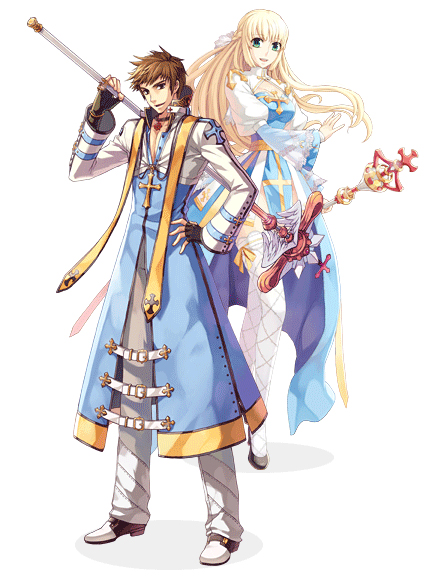
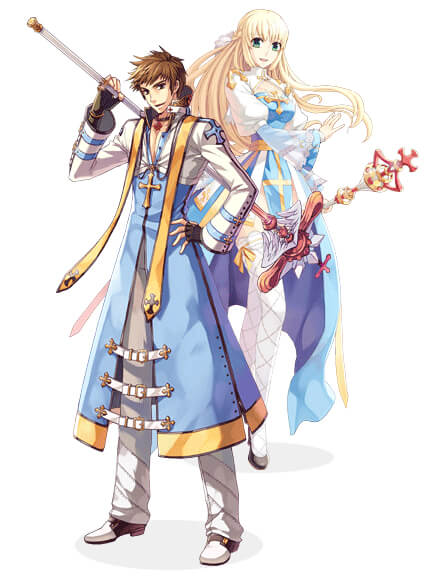
調整圖片尺寸大小

diff --git a/src/components/AboutRo.vue b/src/components/AboutRo.vue
@@ -63,7 +63,7 @@
         .container
           .row.flex-md-row-reverse
             .col-md-6
-              img(src="@/assets/img/about/eLfCllc.jpg").img-fluid.about-img
+              img(src="@/assets/img/about/00008355.jpg").img-fluid.about-img
             .col-md-6.d-flex.justify-content-center
               .about-content
                 .title.text-ro-dark.h4.text-center.font-weight-bold 山中之城『斐揚』
